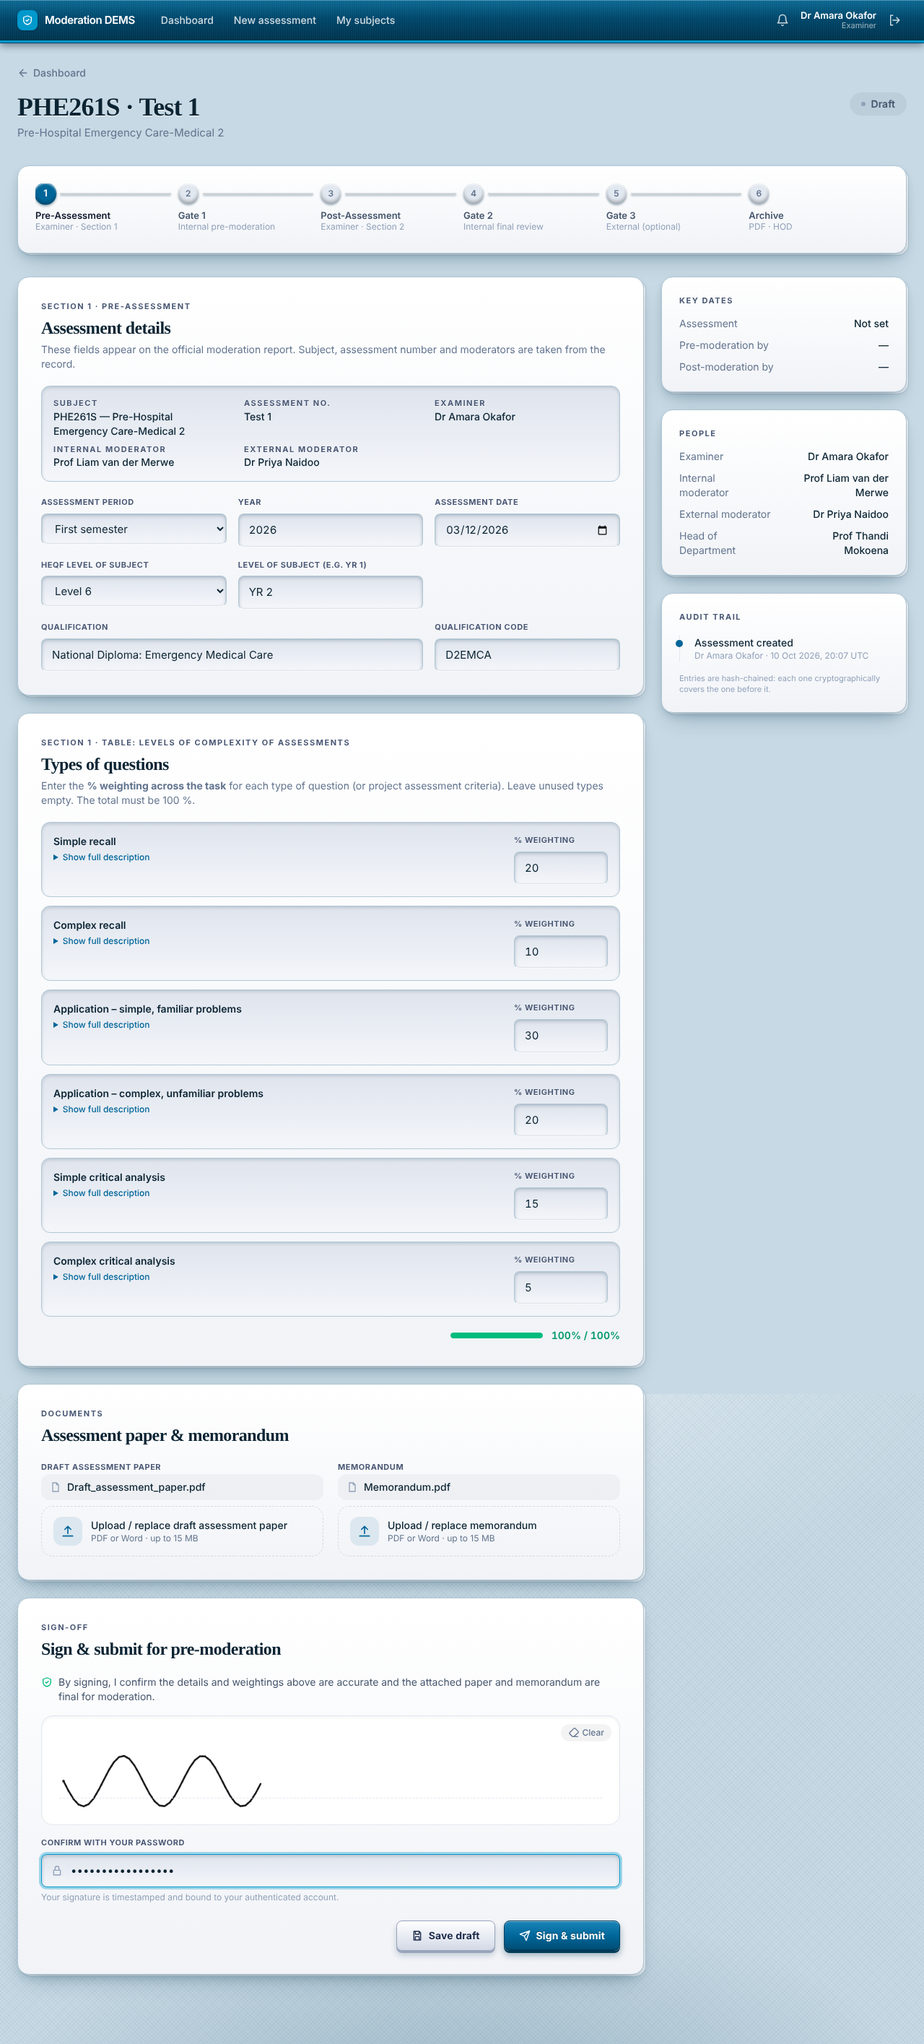
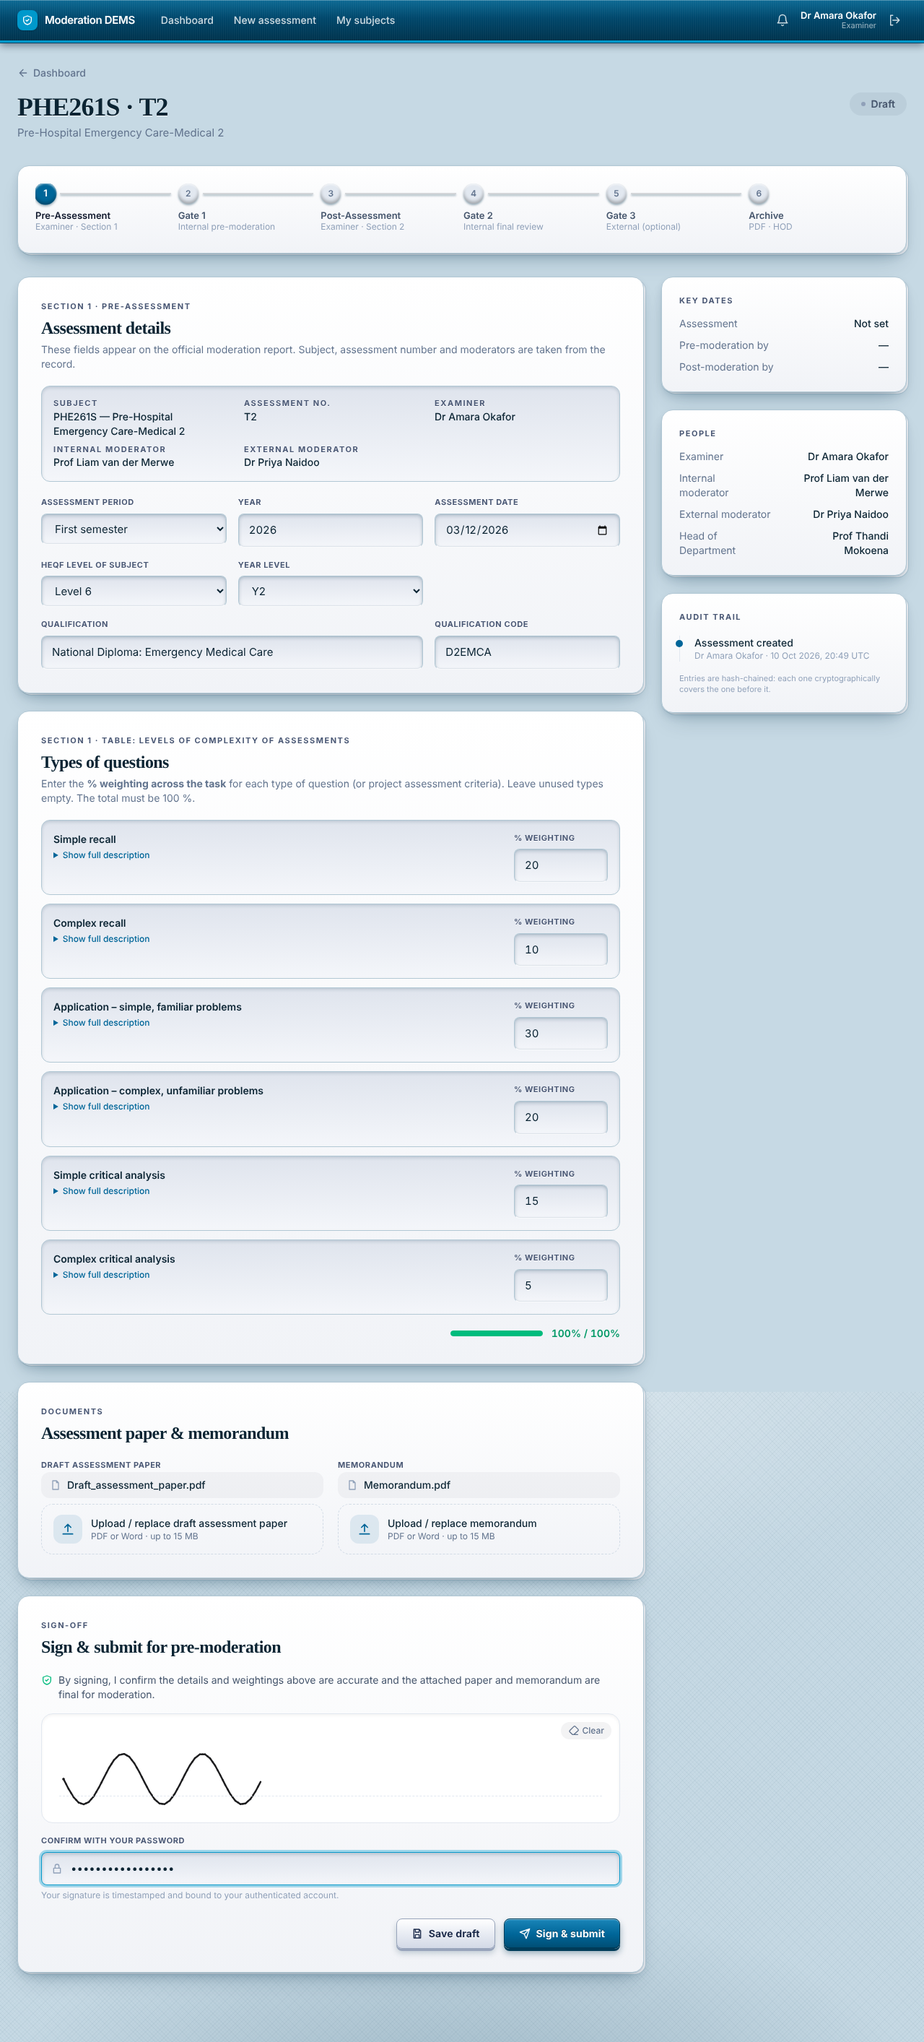
Year level dropdown (Y0-Y4) on the new assessment form
Claude-Session: https://claude.ai/code/session_01KMAi7XbmWaGJHSxj4HaG4y

diff --git a/tests/Feature/LifecycleTest.php b/tests/Feature/LifecycleTest.php
@@ -68,7 +68,7 @@ class LifecycleTest extends TestCase
     private function s1(int $recall = 20): array
     {
         return [
-            'period' => 'first', 'year' => 2026, 'heqf_level' => 6, 'subject_level' => 'YR 2',
+            'period' => 'first', 'year' => 2026, 'heqf_level' => 6, 'subject_level' => 'Y2',
             'qualification' => 'National Diploma: Emergency Medical Care', 'qualification_code' => 'D2EMCA', 'assessment_date' => '2026-03-12',
             'weights' => ['recall_simple' => $recall, 'recall_complex' => 10, 'application_simple' => 30, 'application_complex' => 20, 'analysis_simple' => 15, 'analysis_complex' => 100 - $recall - 75],
         ];
@@ -138,9 +138,9 @@ class LifecycleTest extends TestCase
     private function newAssessment(bool $withExternal = true, ?Subject $subject = null, string $number = 'T1'): Assessment
     {
         $subject ??= $this->subject;
-        $this->as($this->examiner)->post('/assessments', [
+        $this->as($this->examiner)->post('/assessments', ['year_level' => 'Y1', 
             'subject_id' => $subject->id, 'number' => $number,
-            'internal_moderator_id' => $this->internal->id, 'external_moderator_id' => $withExternal ? $this->external->id : null,
+            'internal_moderator_id' => $this->internal->id, 'external_moderator_id' => $withExternal ? $this->external->id : null, 'year_level' => 'Y2',
         ])->assertRedirect();
 
         return Assessment::where('subject_id', $subject->id)->where('number', $number)->firstOrFail();
@@ -323,7 +323,7 @@ class LifecycleTest extends TestCase
     public function test_access_control(): void
     {
         $a = $this->newAssessment();
-        $this->as($this->internal)->post('/assessments', ['subject_id' => $this->subject->id, 'number' => 'X', 'internal_moderator_id' => $this->internal->id])->assertForbidden();
+        $this->as($this->internal)->post('/assessments', ['year_level' => 'Y1', 'subject_id' => $this->subject->id, 'number' => 'X', 'internal_moderator_id' => $this->internal->id])->assertForbidden();
         $this->as($this->examiner)->postJson("/assessments/{$a->id}/pre-review", ['decision' => 'REVISION_REQUESTED', 'comments' => 'nope nope'])->assertForbidden();
         $this->as($this->external)->get("/assessments/{$a->id}")->assertNotFound(); // not handed to them yet
         $this->as($this->internal)->get("/assessments/{$a->id}")->assertOk();
@@ -417,12 +417,12 @@ class LifecycleTest extends TestCase
         $this->assertTrue($this->examiner->isResponsibleFor($phe, Role::Examiner));
         $this->as($this->examiner)->get('/assessments/create')->assertOk()->assertSee('PHE261S')->assertDontSee('PHE262S');
         // only subjects you are responsible for
-        $this->as($this->examiner)->post('/assessments', ['subject_id' => $other->id, 'number' => 'T1', 'internal_moderator_id' => $this->internal->id])->assertSessionHas('error');
+        $this->as($this->examiner)->post('/assessments', ['year_level' => 'Y1', 'subject_id' => $other->id, 'number' => 'T1', 'internal_moderator_id' => $this->internal->id])->assertSessionHas('error');
         // moderators who registered for the subject are the only valid choice
         $this->responsible($this->internal, $phe, Role::InternalModerator);
         $second = User::create(['name' => 'Other Mod', 'email' => 'm2@t.test', 'role' => Role::InternalModerator, 'password' => self::PW]);
-        $this->as($this->examiner)->post('/assessments', ['subject_id' => $phe->id, 'number' => 'T1', 'internal_moderator_id' => $second->id])->assertSessionHas('error');
-        $this->as($this->examiner)->post('/assessments', ['subject_id' => $phe->id, 'number' => 'T1', 'internal_moderator_id' => $this->internal->id, 'assessment_date' => '2026-11-20'])->assertRedirect();
+        $this->as($this->examiner)->post('/assessments', ['year_level' => 'Y1', 'subject_id' => $phe->id, 'number' => 'T1', 'internal_moderator_id' => $second->id])->assertSessionHas('error');
+        $this->as($this->examiner)->post('/assessments', ['year_level' => 'Y1', 'subject_id' => $phe->id, 'number' => 'T1', 'internal_moderator_id' => $this->internal->id, 'assessment_date' => '2026-11-20'])->assertRedirect();
         $this->as($this->external)->put('/my-subjects', ['subjects' => []])->assertForbidden();
     }
 
@@ -463,10 +463,15 @@ class LifecycleTest extends TestCase
     {
         $this->as($this->examiner)->get('/assessments/create')->assertOk()->assertSee('Matches the T column')->assertSee('>T7<', false);
         foreach (['Test 1', 'T8', 't1', ''] as $bad) {
-            $this->as($this->examiner)->post('/assessments', ['subject_id' => $this->subject->id, 'number' => $bad, 'internal_moderator_id' => $this->internal->id])->assertSessionHasErrors('number');
+            $this->as($this->examiner)->post('/assessments', ['year_level' => 'Y1', 'subject_id' => $this->subject->id, 'number' => $bad, 'internal_moderator_id' => $this->internal->id])->assertSessionHasErrors('number');
         }
-        $this->as($this->examiner)->post('/assessments', ['subject_id' => $this->subject->id, 'number' => 'T7', 'internal_moderator_id' => $this->internal->id])->assertRedirect();
+        foreach (['', 'YR 1', 'Y5'] as $bad) {
+            $this->as($this->examiner)->post('/assessments', ['year_level' => $bad, 'subject_id' => $this->subject->id, 'number' => 'T6', 'internal_moderator_id' => $this->internal->id])->assertSessionHasErrors('year_level');
+        }
+        $this->as($this->examiner)->post('/assessments', ['year_level' => 'Y1', 'subject_id' => $this->subject->id, 'number' => 'T7', 'internal_moderator_id' => $this->internal->id])->assertRedirect();
         $this->assertSame('CSC101 · T7', Assessment::firstOrFail()->title());
+        $this->assertSame('Y1', Assessment::firstOrFail()->year_level);
+        $this->as($this->examiner)->get('/assessments/'.Assessment::firstOrFail()->id)->assertOk()->assertSee('Year level');
     }
 
     public function test_login_and_pages_render_for_every_stage(): void

diff --git a/app/Services/Workflow.php b/app/Services/Workflow.php
@@ -74,7 +74,7 @@ class Workflow
         return DB::transaction(function () use ($user, $subject, $internal, $external, $in, $meta) {
             $a = Assessment::create([
                 'subject_id' => $subject->id, 'number' => $in['number'], 'examiner_id' => $user->id,
-                'internal_moderator_id' => $internal->id, 'external_moderator_id' => $external?->id, 'assessment_date' => ! empty($in['assessment_date']) ? $in['assessment_date'] : null,
+                'internal_moderator_id' => $internal->id, 'external_moderator_id' => $external?->id, 'assessment_date' => ! empty($in['assessment_date']) ? $in['assessment_date'] : null, 'year_level' => $in['year_level'] ?? null,
                 'status' => S::Draft,
             ]);
             $this->audit->log('ASSESSMENT_CREATED', $a->id, $user->id, ['subject' => $subject->code, 'number' => $a->number], $meta['ip']);
@@ -90,7 +90,7 @@ class Workflow
         $this->assertExaminer($user, $a);
         $this->expect($a, S::Draft, S::RevisionRequested);
         $norm = ModerationForm::s1Examiner($s1);
-        $a->update(['s1_examiner' => $norm, 'assessment_date' => $norm['assessment_date'] ?: $a->assessment_date]);
+        $a->update(['s1_examiner' => $norm, 'assessment_date' => $norm['assessment_date'] ?: $a->assessment_date, 'year_level' => $norm['subject_level'] ?: $a->year_level]);
     }
 
     public function upload(User $user, Assessment $a, AttachmentKind $kind, string $filename, string $bytes, array $meta): Attachment
@@ -138,7 +138,7 @@ class Workflow
         $hash = Hashing::content(['section' => 1, 'id' => $a->id, 'revision' => $revision, 'form' => $form, 'paper' => $paper->sha256, 'memo' => $memo->sha256]);
         DB::transaction(function () use ($a, $user, $form, $sig, $meta, $revision, $hash) {
             $a = $this->lock($a, S::Draft, S::RevisionRequested);
-            $a->update(['status' => S::PendingPreModeration, 's1_examiner' => $form, 'assessment_date' => $form['assessment_date'] ?: $a->assessment_date, 'revision' => $revision]);
+            $a->update(['status' => S::PendingPreModeration, 's1_examiner' => $form, 'assessment_date' => $form['assessment_date'] ?: $a->assessment_date, 'year_level' => $form['subject_level'] ?: $a->year_level, 'revision' => $revision]);
             $this->signer->record($a, $user, SignatureSection::ExaminerSection1, $sig['image'], $hash, $meta);
             $this->audit->log('SECTION1_SUBMITTED', $a->id, $user->id, ['revision' => $revision, 'contentHash' => $hash], $meta['ip']);
             $this->notifier->inApp([$a->internal_moderator_id], $a, "{$a->title()} is ready for your pre-moderation review.");

diff --git a/resources/views/assessments/panels/section1.blade.php b/resources/views/assessments/panels/section1.blade.php
@@ -4,7 +4,7 @@ $f = config('moderation_form');
 $s = $a->s1_examiner ?? [];
 $form = [
   'period' => $s['period'] ?? 'first', 'year' => $s['year'] ?? (int) date('Y'), 'heqf_level' => $s['heqf_level'] ?? 6,
-  'subject_level' => $s['subject_level'] ?? 'YR 1', 'qualification' => $s['qualification'] ?? '', 'qualification_code' => $s['qualification_code'] ?? '',
+  'subject_level' => $s['subject_level'] ?? $a->year_level ?? '', 'qualification' => $s['qualification'] ?? '', 'qualification_code' => $s['qualification_code'] ?? '',
   'assessment_date' => $s['assessment_date'] ?? '',
   'weights' => collect(array_keys($f['question_types']))->mapWithKeys(fn ($k) => [$k => $s['weights'][$k] ?? ''])->all(),
 ];
@@ -39,7 +39,7 @@ $feedback = $a->records->where('stage', ModerationStage::PreModeration)->where('
       <div><label class="label" for="year">Year</label><input id="year" type="number" min="2000" max="2100" class="field tabular-nums" x-model="form.year"></div>
       <div><label class="label" for="adate">Assessment date</label><input id="adate" type="date" class="field" x-model="form.assessment_date"></div>
       <div><label class="label" for="heqf">HEQF level of subject</label><select id="heqf" class="field" x-model="form.heqf_level">@foreach ([5, 6, 7, 8, 9, 10] as $l)<option value="{{ $l }}">Level {{ $l }}</option>@endforeach</select></div>
-      <div><label class="label" for="slevel">Level of subject (e.g. YR 1)</label><input id="slevel" list="levels" class="field" maxlength="40" x-model="form.subject_level"><datalist id="levels">@foreach ($f['levels'] as $l)<option value="{{ $l }}">@endforeach</datalist></div>
+      <div><label class="label" for="slevel">Year level</label><select id="slevel" class="field" x-model="form.subject_level"><option value="">Select…</option>@foreach (array_unique(array_merge($f['levels'], array_filter([$form['subject_level']]))) as $l)<option value="{{ $l }}">{{ $l }}</option>@endforeach</select></div>
       <div></div>
       <div class="sm:col-span-2"><label class="label" for="qual">Qualification</label><input id="qual" class="field" maxlength="160" placeholder="e.g. National Diploma: Emergency Medical Care" x-model="form.qualification"></div>
       <div><label class="label" for="qcode">Qualification code</label><input id="qcode" class="field" maxlength="40" x-model="form.qualification_code"></div>

diff --git a/resources/views/assessments/create.blade.php b/resources/views/assessments/create.blade.php
@@ -16,6 +16,8 @@
     <div><label class="label" for="number">Assessment number</label><select id="number" name="number" required class="field"><option value="">Select…</option>@foreach (config('dems.assessment_numbers') as $n)<option value="{{ $n }}" @selected(old('number') === $n)>{{ $n }}</option>@endforeach</select>
       <p class="mt-1 text-xs text-slate-400">Matches the T column in the marks sheet.</p></div>
   </div>
+  <div class="grid gap-5 sm:grid-cols-2"><div><label class="label" for="year_level">Year level</label>
+    <select id="year_level" name="year_level" required class="field"><option value="">Select…</option>@foreach (config('moderation_form.levels') as $l)<option value="{{ $l }}" @selected(old('year_level') === $l)>{{ $l }}</option>@endforeach</select></div></div>
   <div><label class="label" for="adate">Assessment date <span class="normal-case tracking-normal text-slate-400">(optional, sets the deadlines)</span></label>
     <input id="adate" name="assessment_date" type="date" class="field max-w-[220px]" x-model="date">
     <p class="mt-1.5 text-xs text-slate-500 dark:text-zinc-400" x-show="date" x-cloak>Pre-moderation must be finished by <b x-text="shift(-{{ (int) config('dems.pre_moderation_days') }})"></b>; post-moderation by <b x-text="shift({{ (int) config('dems.post_moderation_days') }})"></b>.</p></div>

diff --git a/app/Http/Controllers/AssessmentController.php b/app/Http/Controllers/AssessmentController.php
@@ -28,7 +28,8 @@ class AssessmentController extends Controller
             'internal_moderator_id' => ['required', 'integer'],
             'external_moderator_id' => ['nullable', 'integer'],
             'assessment_date' => ['nullable', 'date'],
-        ], ['number.required' => 'Choose the assessment number.', 'number.in' => 'Choose T1 to T7.', 'internal_moderator_id.required' => 'Choose an internal moderator.']);
+            'year_level' => ['required', \Illuminate\Validation\Rule::in(config('moderation_form.levels'))],
+        ], ['number.required' => 'Choose the assessment number.', 'number.in' => 'Choose T1 to T7.', 'year_level.required' => 'Choose the year level.', 'year_level.in' => 'Choose Y0 to Y4.', 'internal_moderator_id.required' => 'Choose an internal moderator.']);
         $a = $workflow->create($request->user(), $data, $this->meta($request));
 
         return redirect()->route('assessments.show', $a);

diff --git a/database/migrations/2026_10_10_000008_assessment_year_level.php b/database/migrations/2026_10_10_000008_assessment_year_level.php
@@ -1,0 +1,18 @@
+<?php
+
+use Illuminate\Database\Migrations\Migration;
+use Illuminate\Database\Schema\Blueprint;
+use Illuminate\Support\Facades\Schema;
+
+return new class extends Migration
+{
+    public function up(): void
+    {
+        Schema::table('assessments', fn (Blueprint $t) => $t->string('year_level', 8)->nullable());
+    }
+
+    public function down(): void
+    {
+        Schema::table('assessments', fn (Blueprint $t) => $t->dropColumn('year_level'));
+    }
+};

diff --git a/config/moderation_form.php b/config/moderation_form.php
@@ -10,7 +10,7 @@ return [
 
     'periods' => ['first' => 'First semester', 'second' => 'Second semester', 'full' => 'Full year'],
 
-    'levels' => ['YR 1', 'YR 2', 'YR 3', 'YR 4', 'Postgraduate'],
+    'levels' => ['Y0', 'Y1', 'Y2', 'Y3', 'Y4'],
 
     /** Table 1 — levels of complexity of assessments (weighting must total 100 %). */
     'question_types' => [

diff --git a/docs/manuals/01-examiner.md b/docs/manuals/01-examiner.md
@@ -4,7 +4,7 @@ You own an assessment from the first draft to the final signed report. You act i
 
 ## Before you start: choose your subjects
 
-Open **My subjects**, tick the subjects you are responsible for and save. You can only start assessments for those. When you create an assessment, choose the **assessment number** (T1–T7: it is linked to the column of the same name in the marks sheet you upload later) and enter the **assessment date**: pre-moderation must be finished 14 days before it and post-moderation 14 days after it; the due dates show on your dashboard and you get reminders.
+Open **My subjects**, tick the subjects you are responsible for and save. You can only start assessments for those. When you create an assessment, choose the **year level** (Y0–Y4) and the **assessment number** (T1–T7: it is linked to the column of the same name in the marks sheet you upload later) and enter the **assessment date**: pre-moderation must be finished 14 days before it and post-moderation 14 days after it; the due dates show on your dashboard and you get reminders.
 
 ![My subjects](../screenshots/my-subjects.png)
 
@@ -24,7 +24,7 @@ Open **My subjects**, tick the subjects you are responsible for and save. You ca
 
 ## Before you start: choose your subjects
 
-Open **My subjects**, tick the subjects you are responsible for and save. You can only start assessments for those. When you create an assessment, choose the **assessment number** (T1–T7: it is linked to the column of the same name in the marks sheet you upload later) and enter the **assessment date**: pre-moderation must be finished 14 days before it and post-moderation 14 days after it; the due dates show on your dashboard and you get reminders.
+Open **My subjects**, tick the subjects you are responsible for and save. You can only start assessments for those. When you create an assessment, choose the **year level** (Y0–Y4) and the **assessment number** (T1–T7: it is linked to the column of the same name in the marks sheet you upload later) and enter the **assessment date**: pre-moderation must be finished 14 days before it and post-moderation 14 days after it; the due dates show on your dashboard and you get reminders.
 
 ![My subjects](../screenshots/my-subjects.png)
 
@@ -43,7 +43,7 @@ Status becomes **Pending Pre-Moderation Review** and the internal moderator is n
 
 ## Before you start: choose your subjects
 
-Open **My subjects**, tick the subjects you are responsible for and save. You can only start assessments for those. When you create an assessment, choose the **assessment number** (T1–T7: it is linked to the column of the same name in the marks sheet you upload later) and enter the **assessment date**: pre-moderation must be finished 14 days before it and post-moderation 14 days after it; the due dates show on your dashboard and you get reminders.
+Open **My subjects**, tick the subjects you are responsible for and save. You can only start assessments for those. When you create an assessment, choose the **year level** (Y0–Y4) and the **assessment number** (T1–T7: it is linked to the column of the same name in the marks sheet you upload later) and enter the **assessment date**: pre-moderation must be finished 14 days before it and post-moderation 14 days after it; the due dates show on your dashboard and you get reminders.
 
 ![My subjects](../screenshots/my-subjects.png)
 
@@ -55,7 +55,7 @@ The record returns to **Revision Requested** with the moderator's feedback at th
 
 ## Before you start: choose your subjects
 
-Open **My subjects**, tick the subjects you are responsible for and save. You can only start assessments for those. When you create an assessment, choose the **assessment number** (T1–T7: it is linked to the column of the same name in the marks sheet you upload later) and enter the **assessment date**: pre-moderation must be finished 14 days before it and post-moderation 14 days after it; the due dates show on your dashboard and you get reminders.
+Open **My subjects**, tick the subjects you are responsible for and save. You can only start assessments for those. When you create an assessment, choose the **year level** (Y0–Y4) and the **assessment number** (T1–T7: it is linked to the column of the same name in the marks sheet you upload later) and enter the **assessment date**: pre-moderation must be finished 14 days before it and post-moderation 14 days after it; the due dates show on your dashboard and you get reminders.
 
 ![My subjects](../screenshots/my-subjects.png)
 
@@ -84,7 +84,7 @@ The app checks the file against your assessment and warns you (without blocking)
 
 ## Before you start: choose your subjects
 
-Open **My subjects**, tick the subjects you are responsible for and save. You can only start assessments for those. When you create an assessment, choose the **assessment number** (T1–T7: it is linked to the column of the same name in the marks sheet you upload later) and enter the **assessment date**: pre-moderation must be finished 14 days before it and post-moderation 14 days after it; the due dates show on your dashboard and you get reminders.
+Open **My subjects**, tick the subjects you are responsible for and save. You can only start assessments for those. When you create an assessment, choose the **year level** (Y0–Y4) and the **assessment number** (T1–T7: it is linked to the column of the same name in the marks sheet you upload later) and enter the **assessment date**: pre-moderation must be finished 14 days before it and post-moderation 14 days after it; the due dates show on your dashboard and you get reminders.
 
 ![My subjects](../screenshots/my-subjects.png)
 
@@ -98,7 +98,7 @@ A moderator can send the results back with feedback. The record returns to **Rea
 
 ## Before you start: choose your subjects
 
-Open **My subjects**, tick the subjects you are responsible for and save. You can only start assessments for those. When you create an assessment, choose the **assessment number** (T1–T7: it is linked to the column of the same name in the marks sheet you upload later) and enter the **assessment date**: pre-moderation must be finished 14 days before it and post-moderation 14 days after it; the due dates show on your dashboard and you get reminders.
+Open **My subjects**, tick the subjects you are responsible for and save. You can only start assessments for those. When you create an assessment, choose the **year level** (Y0–Y4) and the **assessment number** (T1–T7: it is linked to the column of the same name in the marks sheet you upload later) and enter the **assessment date**: pre-moderation must be finished 14 days before it and post-moderation 14 days after it; the due dates show on your dashboard and you get reminders.
 
 ![My subjects](../screenshots/my-subjects.png)
 
@@ -110,7 +110,7 @@ When all signatures are in, the record shows **Moderation complete** and you can
 
 ## Before you start: choose your subjects
 
-Open **My subjects**, tick the subjects you are responsible for and save. You can only start assessments for those. When you create an assessment, choose the **assessment number** (T1–T7: it is linked to the column of the same name in the marks sheet you upload later) and enter the **assessment date**: pre-moderation must be finished 14 days before it and post-moderation 14 days after it; the due dates show on your dashboard and you get reminders.
+Open **My subjects**, tick the subjects you are responsible for and save. You can only start assessments for those. When you create an assessment, choose the **year level** (Y0–Y4) and the **assessment number** (T1–T7: it is linked to the column of the same name in the marks sheet you upload later) and enter the **assessment date**: pre-moderation must be finished 14 days before it and post-moderation 14 days after it; the due dates show on your dashboard and you get reminders.
 
 ![My subjects](../screenshots/my-subjects.png)
 
